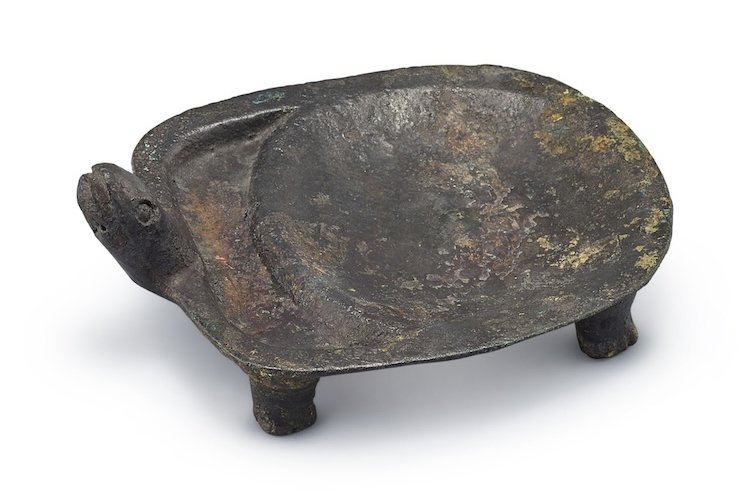
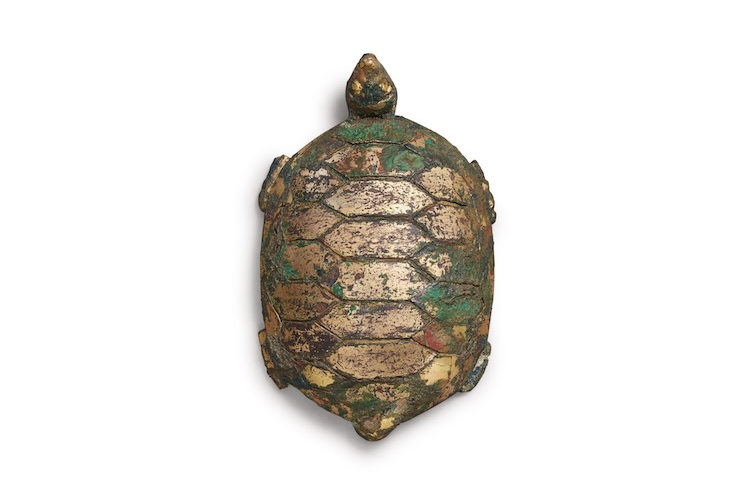
deploy: zya-han/zya-han.github.io-private@854852c0d6f32226fd1e35844dced61d5746ad7f

diff --git a/shackles-en.html b/shackles-en.html
@@ -445,7 +445,7 @@ Guard: Hmm.</p>
 </blockquote>
 
 <h3 id="a1-answers-generated">A1. Answers generated</h3>
-<ul id="q1" class="tab" data-tab="8a444a6f-aa4c-4562-8773-66370504addf" data-name="q1">
+<ul id="q1" class="tab" data-tab="27d55eac-88d9-4b5a-a34d-bf2913294982" data-name="q1">
   
       <li class="active" id="q1-claude-sonnet-4">
           <a href="#">Claude Sonnet 4 </a>
@@ -472,7 +472,7 @@ Guard: Hmm.</p>
       </li>
   
 </ul>
-<ul class="tab-content" id="8a444a6f-aa4c-4562-8773-66370504addf" data-name="q1">
+<ul class="tab-content" id="27d55eac-88d9-4b5a-a34d-bf2913294982" data-name="q1">
   
       <li class="active">
 <p>In this conversation, there are two layers of meaning at play:</p>
@@ -610,7 +610,7 @@ The guard is momentarily stumped. He doesn’t immediately respond to Zhang’s 
 
 <h3 id="a2-answers-generated">A2. Answers generated</h3>
 
-<ul id="q2" class="tab" data-tab="1e3dabf6-14b5-4eb9-8b55-9587d816f91b" data-name="q2">
+<ul id="q2" class="tab" data-tab="87a170f0-ed59-47d6-868c-3e38ea853a40" data-name="q2">
   
       <li class="active" id="q2-claude-sonnet-4">
           <a href="#">Claude Sonnet 4 </a>
@@ -637,7 +637,7 @@ The guard is momentarily stumped. He doesn’t immediately respond to Zhang’s 
       </li>
   
 </ul>
-<ul class="tab-content" id="1e3dabf6-14b5-4eb9-8b55-9587d816f91b" data-name="q2">
+<ul class="tab-content" id="87a170f0-ed59-47d6-868c-3e38ea853a40" data-name="q2">
   
       <li class="active">
 <p>Based on the contextual clues in the story, Zhang appears to have been a corrupt government official who was executed for his crimes. Here’s what we can infer:</p>
@@ -863,7 +863,7 @@ Zhang thought of Wei.<br />
 
 <h3 id="a3-answers-generated">A3. Answers generated</h3>
 
-<ul id="q3" class="tab" data-tab="9faf9a3e-c9b6-4e34-add5-24cd844d4eb7" data-name="q3">
+<ul id="q3" class="tab" data-tab="13836523-b8b8-457f-8dc3-8ac74d8f2104" data-name="q3">
   
       <li class="active" id="q3-claude-sonnet-4">
           <a href="#">Claude Sonnet 4 </a>
@@ -890,7 +890,7 @@ Zhang thought of Wei.<br />
       </li>
   
 </ul>
-<ul class="tab-content" id="9faf9a3e-c9b6-4e34-add5-24cd844d4eb7" data-name="q3">
+<ul class="tab-content" id="13836523-b8b8-457f-8dc3-8ac74d8f2104" data-name="q3">
   
       <li class="active">
 <p>Based on this brief but telling moment, I believe <strong>Wei was likely Zhang’s romantic partner or spouse</strong> - someone deeply important to him personally rather than professionally.</p>
@@ -1122,7 +1122,7 @@ Without more details, this remains speculative, but Wei likely represents someon
 
 <h3 id="a4-answers-generated">A4. Answers generated</h3>
 
-<ul id="q4" class="tab" data-tab="1ee54722-eaa4-46fe-82fc-36490af0941b" data-name="q4">
+<ul id="q4" class="tab" data-tab="ae62d0d8-0e19-440c-ac40-9bf895376753" data-name="q4">
   
       <li class="active" id="q4-claude-sonnet-4">
           <a href="#">Claude Sonnet 4 </a>
@@ -1149,7 +1149,7 @@ Without more details, this remains speculative, but Wei likely represents someon
       </li>
   
 </ul>
-<ul class="tab-content" id="1ee54722-eaa4-46fe-82fc-36490af0941b" data-name="q4">
+<ul class="tab-content" id="ae62d0d8-0e19-440c-ac40-9bf895376753" data-name="q4">
   
       <li class="active">
 <p>I see several possible symbolic and psychological reasons why Zhang might choose this particular historical text:</p>
@@ -1400,7 +1400,7 @@ Zhang’s choice of a historical text about a formidable adversary to the Han st
 
 <h3 id="a5-answers-generated">A5. Answers generated</h3>
 
-<ul id="q5" class="tab" data-tab="f432a786-1844-426a-91b2-982922459088" data-name="q5">
+<ul id="q5" class="tab" data-tab="03da5357-a899-407a-81f5-980021760b6e" data-name="q5">
   
       <li class="active" id="q5-claude-sonnet-4">
           <a href="#">Claude Sonnet 4 </a>
@@ -1427,7 +1427,7 @@ Zhang’s choice of a historical text about a formidable adversary to the Han st
       </li>
   
 </ul>
-<ul class="tab-content" id="f432a786-1844-426a-91b2-982922459088" data-name="q5">
+<ul class="tab-content" id="03da5357-a899-407a-81f5-980021760b6e" data-name="q5">
   
       <li class="active">
 <p>Based on the text, it’s highly unlikely that the warden actually donated the ring to a legitimate museum. The quotation marks around “museum display” suggest skepticism or sarcasm from the speaker.</p>

diff --git a/shackles.html b/shackles.html
@@ -442,7 +442,7 @@
 </blockquote>
 
 <h3 id="a1-인간모델별-답변">A1. 인간/모델별 답변</h3>
-<ul id="q1" class="tab" data-tab="4f62f12b-7aa2-4cfd-b1e2-719d5757493b" data-name="q1">
+<ul id="q1" class="tab" data-tab="8966763e-d634-45a8-8a84-d9443eafd902" data-name="q1">
   
       <li class="active" id="q1-claude-sonnet-4">
           <a href="#">Claude Sonnet 4 </a>
@@ -473,7 +473,7 @@
       </li>
   
 </ul>
-<ul class="tab-content" id="4f62f12b-7aa2-4cfd-b1e2-719d5757493b" data-name="q1">
+<ul class="tab-content" id="8966763e-d634-45a8-8a84-d9443eafd902" data-name="q1">
   
       <li class="active">
 <p>이 대화에서 두 인물의 의도를 해석해보겠습니다.</p>
@@ -690,7 +690,7 @@
 
 <h3 id="a2-인간모델별-답변">A2. 인간/모델별 답변</h3>
 
-<ul id="q2" class="tab" data-tab="3c765397-8c49-4cbb-a924-63d755b3b281" data-name="q2">
+<ul id="q2" class="tab" data-tab="cb13f152-42b2-436c-b54e-38796a376d20" data-name="q2">
   
       <li class="active" id="q2-claude-sonnet-4">
           <a href="#">Claude Sonnet 4 </a>
@@ -721,7 +721,7 @@
       </li>
   
 </ul>
-<ul class="tab-content" id="3c765397-8c49-4cbb-a924-63d755b3b281" data-name="q2">
+<ul class="tab-content" id="cb13f152-42b2-436c-b54e-38796a376d20" data-name="q2">
   
       <li class="active">
 <p>이 문장과 소설의 맥락을 통해 장현이 죽어야 했던 이유를 추측해보겠습니다.</p>
@@ -976,7 +976,7 @@
 
 <h3 id="a3-인간모델별-답변">A3. 인간/모델별 답변</h3>
 
-<ul id="q3" class="tab" data-tab="ea4b8f90-f60f-4e8a-822b-7a67545be939" data-name="q3">
+<ul id="q3" class="tab" data-tab="f85ea976-2756-4dcb-859b-6e947463c781" data-name="q3">
   
       <li class="active" id="q3-claude-sonnet-4">
           <a href="#">Claude Sonnet 4 </a>
@@ -1007,7 +1007,7 @@
       </li>
   
 </ul>
-<ul class="tab-content" id="ea4b8f90-f60f-4e8a-822b-7a67545be939" data-name="q3">
+<ul class="tab-content" id="f85ea976-2756-4dcb-859b-6e947463c781" data-name="q3">
   
       <li class="active">
 <p>위성이 누구인지에 대해 몇 가지 추측을 해보겠습니다.</p>
@@ -1297,7 +1297,7 @@
 
 <h3 id="a4-인간모델별-답변">A4. 인간/모델별 답변</h3>
 
-<ul id="q4" class="tab" data-tab="c8729e50-04c7-4f1b-aa61-f00f72d068a9" data-name="q4">
+<ul id="q4" class="tab" data-tab="84218bbb-d23e-46ee-8741-52ed3396fa7a" data-name="q4">
   
       <li class="active" id="q4-claude-sonnet-4">
           <a href="#">Claude Sonnet 4 </a>
@@ -1328,7 +1328,7 @@
       </li>
   
 </ul>
-<ul class="tab-content" id="c8729e50-04c7-4f1b-aa61-f00f72d068a9" data-name="q4">
+<ul class="tab-content" id="84218bbb-d23e-46ee-8741-52ed3396fa7a" data-name="q4">
   
       <li class="active">
 <p>장현이 《사기》 〈흉노열전〉을 읽는 까닭을 추측해보겠습니다.</p>
@@ -1635,7 +1635,7 @@
 
 <h3 id="a5-인간모델별-답변">A5. 인간/모델별 답변</h3>
 
-<ul id="q5" class="tab" data-tab="d0678547-93fe-4851-8de3-be8475a12811" data-name="q5">
+<ul id="q5" class="tab" data-tab="02eef693-deb1-46ad-93bf-7f1223698e07" data-name="q5">
   
       <li class="active" id="q5-claude-sonnet-4">
           <a href="#">Claude Sonnet 4 </a>
@@ -1666,7 +1666,7 @@
       </li>
   
 </ul>
-<ul class="tab-content" id="d0678547-93fe-4851-8de3-be8475a12811" data-name="q5">
+<ul class="tab-content" id="02eef693-deb1-46ad-93bf-7f1223698e07" data-name="q5">
   
       <li class="active">
 <p>교정소 소장이 정말로 박물관에 기증했을 가능성은 낮다고 생각합니다.</p>

diff --git a/inkstones/index.html b/inkstones/index.html
@@ -511,7 +511,7 @@
 
 <figure class="image" style="text-align:center;">
     
-        <img src="/assets/images/cards/han-inkstone.png" alt="원형으로 만들어진 세 발 달린 벼루. 뚜껑에는 비둘기 두 마리가 조각되어 있다.">
+        <img src="/assets/images/han-inkstone-5.png" alt="원형으로 만들어진 세 발 달린 벼루. 뚜껑에는 비둘기 두 마리가 조각되어 있다.">
     
     
         <figcaption>雙鳩蓋三足石硯<br>고궁박물관 소장.<br>지름 14.8cm, 높이 15.7cm.</figcaption>
@@ -522,7 +522,7 @@
 
 <figure class="image" style="text-align:center;">
     
-        <img src="/assets/images/han-inkstone-5.jpg" alt="세 발 달린 원형 벼루. 뚜껑에 용 두마리가 조각되어 있다.">
+        <img src="/assets/images/han-inkstone-6.jpg" alt="세 발 달린 원형 벼루. 뚜껑에 용 두마리가 조각되어 있다.">
     
     
         <figcaption>東漢雙龍鈕蓋三足石硯.</figcaption>
@@ -534,7 +534,7 @@
 
 <figure class="image" style="text-align:center;">
     
-        <a href="https://www.sothebys.com/en/buy/auction/2024/ritual-and-reality/a-gilt-bronze-turtle-ink-stone-cover-han-dynasty"><img src="/assets/images/han-inkstone-6.jpg" alt="거북이 등껍질 모양 벼루 뚜껑."></a>
+        <a href="https://www.sothebys.com/en/buy/auction/2024/ritual-and-reality/a-gilt-bronze-turtle-ink-stone-cover-han-dynasty"><img src="/assets/images/han-inkstone-7.jpg" alt="거북이 등껍질 모양 벼루 뚜껑."></a>
     
     
         <figcaption>漢 銅鎏金龜硯蓋.<br>길이 14cm.</figcaption>
@@ -543,7 +543,7 @@
 
 <figure class="image" style="text-align:center;">
     
-        <a href="https://www.sothebys.com/en/buy/auction/2020/chinese-art-including-property-from-the-collection-of-cheng-huan/a-bronze-turtle-form-ink-stone-eastern-han-dynasty"><img src="/assets/images/han-inkstone-7.jpg" alt="거북이 모양 벼루 몸체."></a>
+        <a href="https://www.sothebys.com/en/buy/auction/2020/chinese-art-including-property-from-the-collection-of-cheng-huan/a-bronze-turtle-form-ink-stone-eastern-han-dynasty"><img src="/assets/images/han-inkstone-8.jpg" alt="거북이 모양 벼루 몸체."></a>
     
     
         <figcaption>東漢至六朝 銅龜硯.<br>길이 13.8cm.</figcaption>
@@ -658,6 +658,29 @@
 
 
 
+
+  <section class="related-posts">
+    <h2 class="related">📚 관련 포스트</h2>
+    <div class="related-posts-grid">
+      
+        
+          <article class="related-post-card">
+            <a href="/devoted-husbands/">
+              
+                <img src="/assets/images/cards/dahuting-women.jpg" alt="장창과 반초: 한나라의 애처가들" class="related-post-thumb">
+              
+              <div class="related-post-content">
+                <h3 class="related-post-title">장창과 반초: 한나라의 애처가들</h3>
+                <p class="related-post-excerpt">🙋 질문
+
+한나라 때 장창이 아내의 눈썹을 그려주었다가 다른 신하들의 탄핵을 받은 적이 있다고 압니다. 그 사유는 남자가 화장품 같은 여성적이라고 인식된 물건에 손을 대서인가...</p>
+              </div>
+            </a>
+          </article>
+        
+      
+    </div>
+  </section>
 
 
         </div>

diff --git a/shackles-ai-generated.html b/shackles-ai-generated.html
@@ -623,7 +623,7 @@
 </pre></td></tr></tbody></table></code></pre></div></div>
 
 <h3 id="생성된-텍스트">생성된 텍스트</h3>
-<ul id="q1" class="tab" data-tab="801723fb-3d55-4ac5-b747-235400a1f227" data-name="q1">
+<ul id="q1" class="tab" data-tab="11a8659f-9227-4663-865f-dcbce1311729" data-name="q1">
   
       <li class="active" id="q1-claude-sonnet-4">
           <a href="#">Claude Sonnet 4 </a>
@@ -650,7 +650,7 @@
       </li>
   
 </ul>
-<ul class="tab-content" id="801723fb-3d55-4ac5-b747-235400a1f227" data-name="q1">
+<ul class="tab-content" id="11a8659f-9227-4663-865f-dcbce1311729" data-name="q1">
   
       <li class="active">
 <h4 id="족쇄">족쇄</h4>
